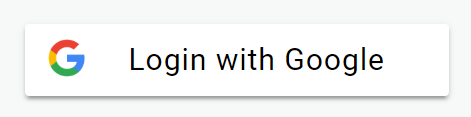
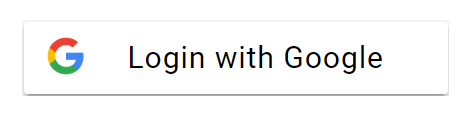
se ven las publicaciones de todos lois usuarios y corrección al boton de google

diff --git a/src/components/Home.js b/src/components/Home.js
@@ -107,6 +107,10 @@ function showPost(container) {
       /** ************* */
       const sectionPost = document.createElement('div');
       sectionPost.className = 'section-post';
+      const spanPostUserName = document.createElement('span');
+      spanPostUserName.className = 'span-post-user-name';
+      spanPostUserName.innerHTML = doc.displayName;
+      const enter = document.createElement('br');
       const spanPost = document.createElement('span');
       spanPost.className = 'span-post';
       spanPost.id = 'spanPost';
@@ -146,9 +150,11 @@ function showPost(container) {
         const editPostDialog = dialogEditPost(buttonEditPost.id, container, spanPost);
         editPostDialog.showModal();
       });
-      postActionsRight.append(buttonEditPost, buttonDeletePost);
+      if (user.uid === doc.userId) {
+        postActionsRight.append(buttonEditPost, buttonDeletePost);
+      }
       postActionsContainer.append(postActionsLeft, postActionsRight);
-      sectionPost.append(spanPost, postActionsContainer);
+      sectionPost.append(spanPostUserName, enter, spanPost, postActionsContainer);
       comments(doc, sectionPost);
     });
     container.appendChild(postWall);
@@ -199,7 +205,7 @@ export const Home = () => {
     createPostForm.addEventListener('submit', (e) => {
       e.preventDefault();
       if (postInput.value.trim() !== '') {
-        createPost(user.uid, postInput.value).then((result) => {
+        createPost(user.uid, user.displayName, postInput.value).then((result) => {
           // console.log('holaaa--->', result);
           showPost(sectionPost);
         }).catch((error) => {

diff --git a/src/lib/functions_post.js b/src/lib/functions_post.js
@@ -39,7 +39,7 @@ export function createUserDoc(user, fullName, photo) {
   });
 }
 
-export function createPost(userId, postContent) {
+export function createPost(userId, displayName, postContent) {
   const postId = createID('post');
   console.log(postId);
   // crea un nuevo objeto `Date` con fecha y hora del momento
@@ -47,6 +47,7 @@ export function createPost(userId, postContent) {
   return addDoc(collection(dataBase, 'publicaciones'), {
     postId,
     userId,
+    displayName,
     contenido: postContent,
     likes: [],
     date: today,
@@ -62,7 +63,7 @@ export function getUserPosts(userId) {
   const ref = collection(dataBase, 'publicaciones'); // Se crea la referencia de la colección
   const q = query( // Se crea la query/consulta
     ref,
-    where('userId', '==', userId), // Condición donde userId sea igual al userId pasado como parámetro
+   // where('userId', '==', userId), // Condición donde userId sea igual al userId pasado como parámetro
     orderBy('date', 'desc'),
   );
   return getDocs(q);

diff --git a/src/components/Login.js b/src/components/Login.js
@@ -54,7 +54,10 @@ export const Login = () => {
   const btnGoogle = document.createElement('button');
   btnGoogle.id = 'buttonGoogle';
   btnGoogle.className = 'btnGoogle stylesBtns';
-  btnGoogle.textContent = 'Entrar con Google';
+  const googleImage = document.createElement('img');
+  googleImage.className = 'google-image';
+  googleImage.src = '../Images/login_google.png';
+  btnGoogle.appendChild(googleImage);
   btnGoogle.addEventListener('click', () => {
     validationLoginWithGoogle();
   });

diff --git a/src/css/style.css b/src/css/style.css
@@ -126,6 +126,11 @@ h2 {
 
 }
 
+.google-image {
+    height: 50%;
+    width: 50%;
+}
+
 .btn-register {
     width: 100%;
     margin-top: 15px;
@@ -303,6 +308,11 @@ footer {
     gap: 10px;
     padding: 12px;
     background-color: white;
+}
+
+.span-post-user-name {
+    font-size: 0.7rem;
+    text-align: right;
 }
 
 #post-wall,
